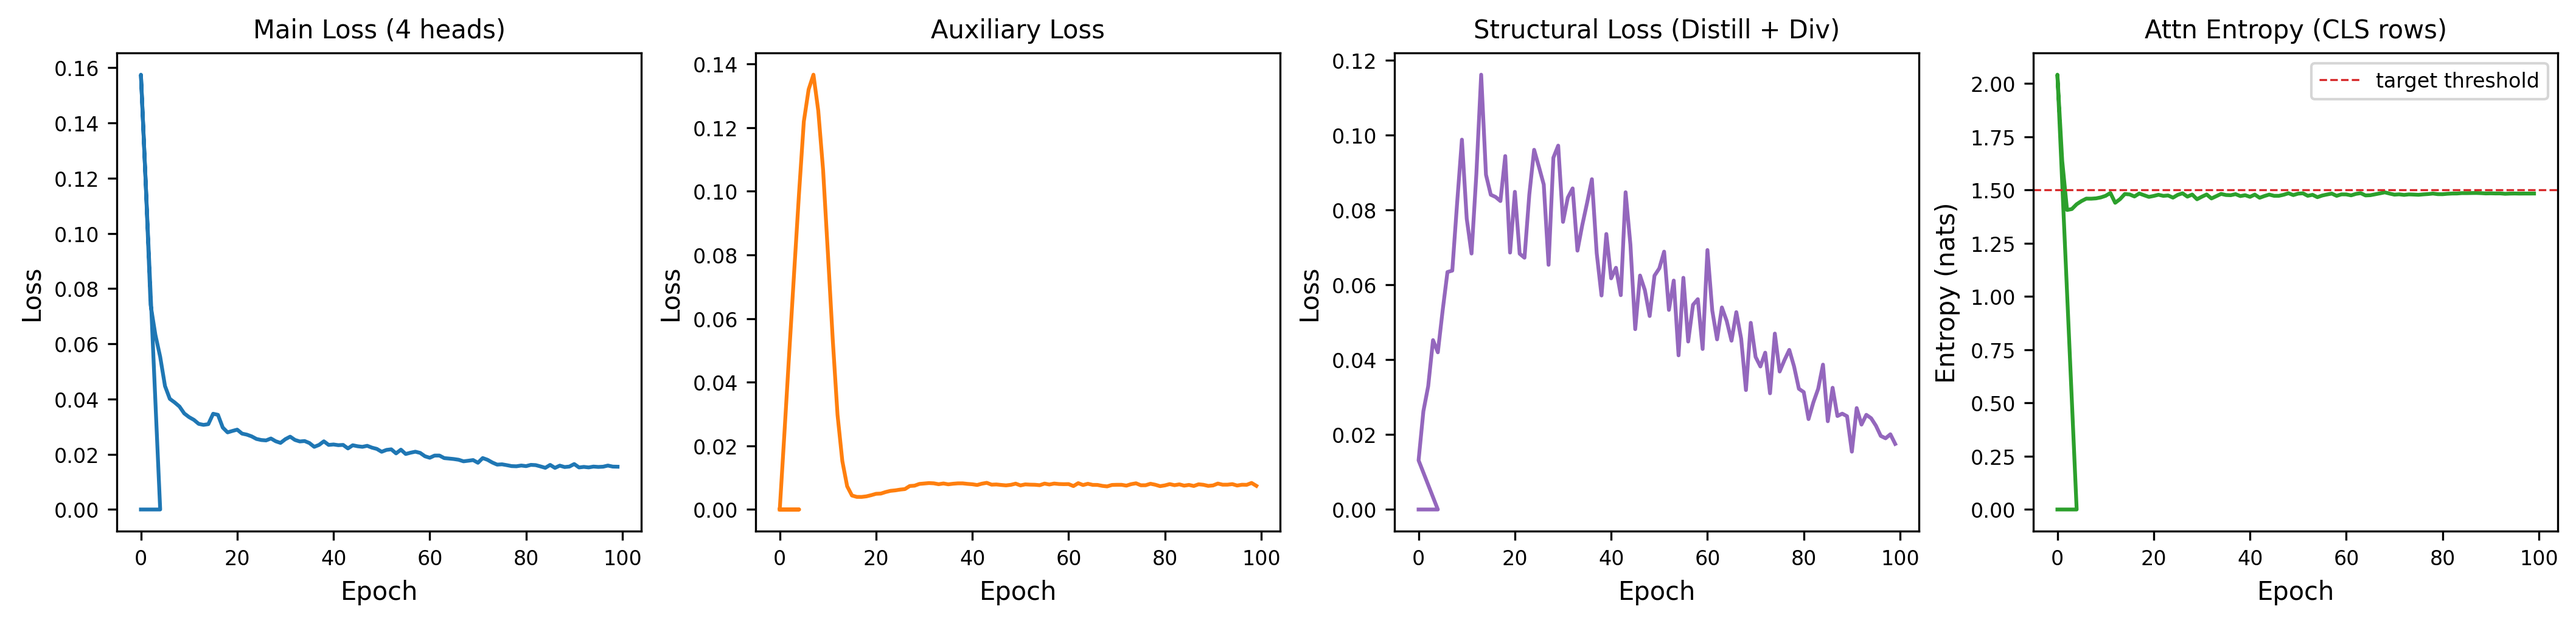
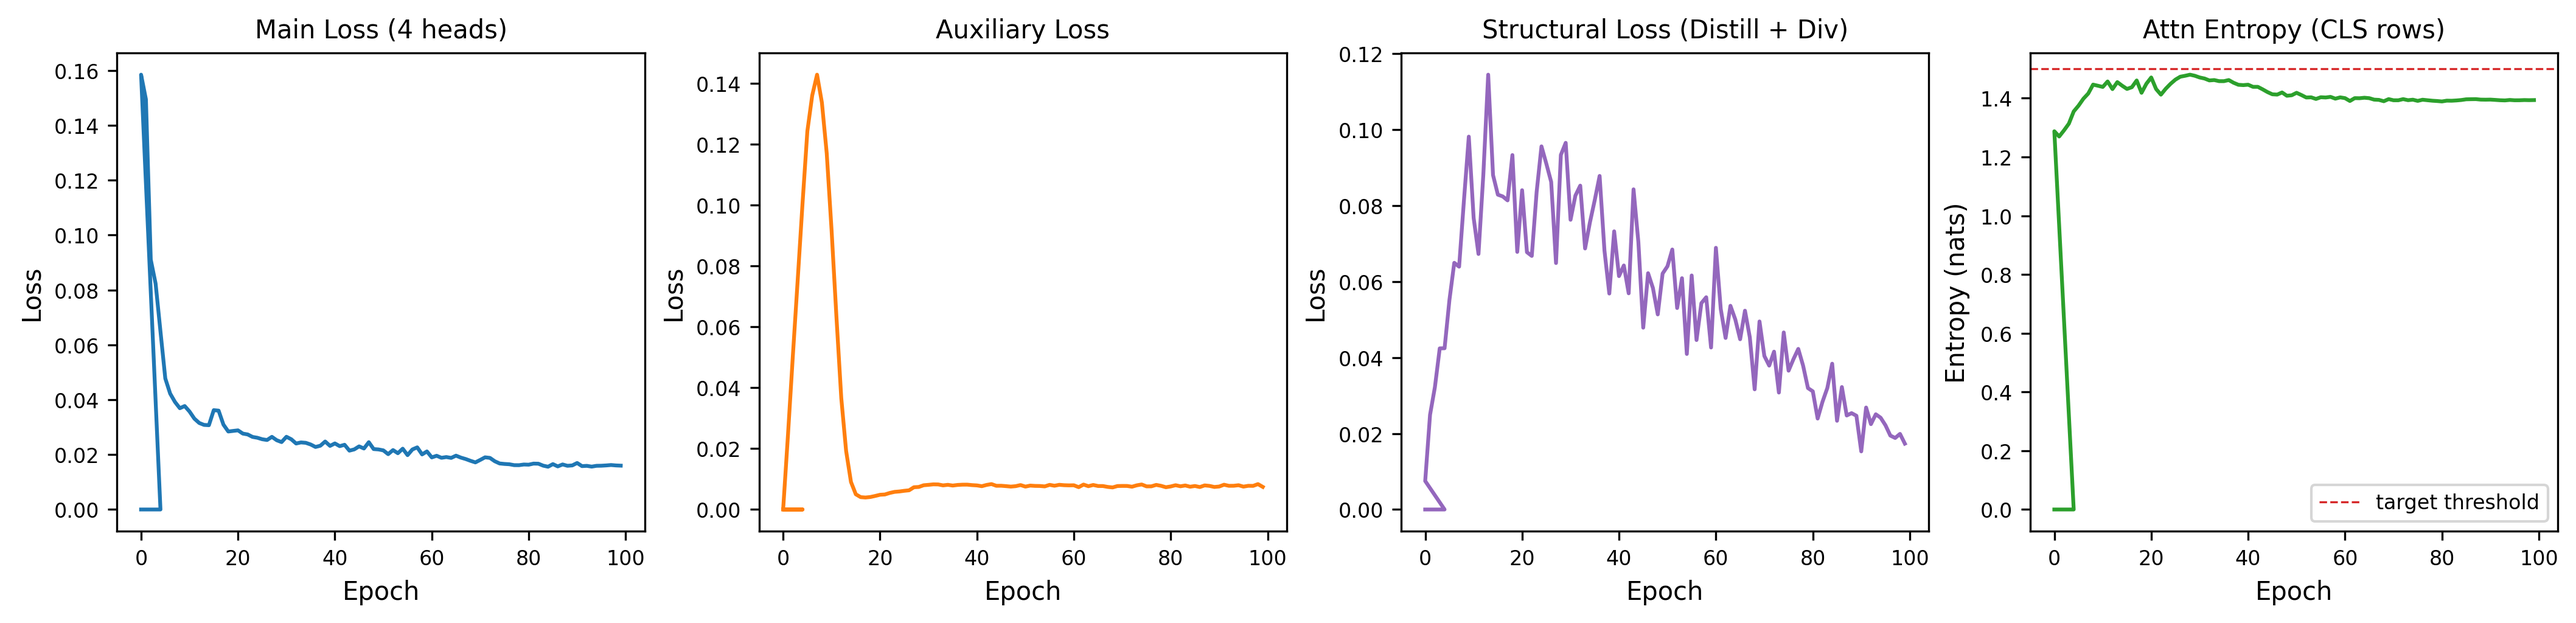
fix: update carbon model results with sparse-data amplification fixes
New checkpoint trained with three architectural fixes:
- StepLocProxy divisive normalization (CLS / sqrt(num_valid))
- Sinkhorn dustbin padding (prevents 1x1 degeneracy)
- LayerNorm on mat_loc_feature before transport head

Total R2 unchanged at 0.988. Sparse-product prediction gap
resolved (was 10x inverted, now correct direction).
Updated README metrics, architecture descriptions, and all plots.

diff --git a/README.md b/README.md
@@ -259,13 +259,13 @@ Residual Trunk (192-dim, 3 blocks, LN + Linear + GELU + Dropout)
 
 ### Key Components
 
-**Dual CLS Tokens.** The StepLocProxy prepends two learned CLS tokens to the step-location sequence before self-attention. CLS_transport is distilled toward the privileged TransportEncoder output; CLS_processing is free, trained only by the processing head's task loss. This prevents transport optimization from corrupting processing-relevant attention patterns.
+**Dual CLS Tokens.** The StepLocProxy prepends two learned CLS tokens to the step-location sequence before self-attention. CLS_transport is distilled toward the privileged TransportEncoder output; CLS_processing is free, trained only by the processing head's task loss. This prevents transport optimization from corrupting processing-relevant attention patterns. After extraction, both CLS outputs are divided by `sqrt(num_valid_tokens)` to normalize magnitude across varying sequence lengths -- without this, a 1-token sequence produces a much higher-magnitude CLS output than a 5-token sequence due to concentrated attention.
 
 **Multi-Scale Coordinate Encoding.** Geographic coordinates are encoded as 32-dimensional multi-scale sinusoidal features across 8 frequency scales, capturing both continental-scale and city-level spatial patterns.
 
 **Gated Geo Fusion.** 27 geographic features (3 haversine statistics + 16-bin pairwise distance histogram + 8 top-K step-pair distances) pass through a learned sigmoid gate controlling per-dimension mixing with the CLS attention output. This prevents the projection MLP from routing everything through scalar statistics and ignoring the attention mechanism.
 
-**MaterialLocAssignment.** Cross-attention with Sinkhorn normalization (3 iterations) solves the bipartite assignment problem: materials and locations are specified separately (not which material is processed where). The module learns soft doubly-stochastic assignments, producing a 32-dim transport-relevant feature for the transport head.
+**MaterialLocAssignment.** Cross-attention with Sinkhorn normalization (3 iterations) solves the bipartite assignment problem: materials and locations are specified separately (not which material is processed where). The module learns soft doubly-stochastic assignments, producing a 32-dim transport-relevant feature that is LayerNorm-normalized before reaching the transport head. A learned dustbin row and column are appended before Sinkhorn to prevent degenerate 1x1 matrices (single material, single location) from trivially returning weight 1.0 -- the dustbin absorbs some assignment mass, ensuring even sparse products produce properly scaled features.
 
 **LUPI Distillation Schedule.** The privileged TransportEncoder sees ground-truth per-leg distances during training. A composite distillation loss (RKD with `rkd_alpha=0.5` blending instance MSE and pairwise distance preservation) transfers this knowledge to the proxy. The distillation coefficient warms up over 10 epochs, peaks at 0.10, then decays linearly to a floor of 0.02.
 
@@ -399,13 +399,13 @@ Note the water model's tier distribution is heavily skewed toward degraded tiers
 
 | Component | MAE | R^2 | SMAPE |
 |-----------|-----|-----|-------|
-| Raw materials | 0.229 kgCO2e | 0.992 | 6.2% |
-| Processing | 0.307 kgCO2e | 0.971 | 9.7% |
-| Transport | 0.048 kgCO2e | 0.691 | 18.6% |
-| Packaging | 0.010 kgCO2e | 0.964 | 4.2% |
-| **Total** | **0.479 kgCO2e** | **0.988** | **6.3%** |
+| Raw materials | 0.235 kgCO2e | 0.991 | 6.1% |
+| Processing | 0.308 kgCO2e | 0.973 | 9.8% |
+| Transport | 0.046 kgCO2e | 0.665 | 18.1% |
+| Packaging | 0.010 kgCO2e | 0.969 | 4.0% |
+| **Total** | **0.489 kgCO2e** | **0.988** | **6.4%** |
 
-Transport is the weakest head (R^2 = 0.691) -- expected, because the proxy must infer transport distances from indirect geographic signals without access to actual per-leg route data at inference time. The LUPI distillation provides a substantial improvement over a naive proxy (which would be near-random), but transport remains inherently harder to estimate than material-driven components.
+Transport is the weakest head (R^2 = 0.665) -- expected, because the proxy must infer transport distances from indirect geographic signals without access to actual per-leg route data at inference time. The LUPI distillation provides a substantial improvement over a naive proxy (which would be near-random), but transport remains inherently harder to estimate than material-driven components.
 
 ### Tier Degradation
 
@@ -456,11 +456,11 @@ Overall tier degradation factor: 2.4x. The confidence gates play a critical role
 | Parameters | ~546K | ~469K |
 | Output heads | 4 (raw, transport, processing, packaging) | 3 (raw, processing, packaging) |
 | Total R^2 | 0.988 | 0.969 |
-| Total MAE | 0.479 kgCO2e | 0.587 m^3 world-eq |
+| Total MAE | 0.489 kgCO2e | 0.587 m^3 world-eq |
 | Geographic sensitivity | Low (2-3x variance) | High (40-100x variance via AWARE) |
 | Key mechanism | LUPI distillation for transport proxy | Confidence-gated cross-attention for geography |
 | Trunk dimension | 192, 3 residual blocks | 128, 2 residual blocks |
-| Special modules | MaterialLocAssignment (Sinkhorn), TransportEncoder | GeoAttentionBlock, ConfidenceGate |
+| Special modules | MaterialLocAssignment (Sinkhorn + dustbin), TransportEncoder | GeoAttentionBlock, ConfidenceGate |
 | Tier A-B strategy | Learned missing embeddings, packaging shortcut | Prior-heavy gates (bias -2.0), auxiliary weight |
 | Tier distribution | A:10%, B:15%, C:20%, D:20%, E:20%, F:15% | A:35%, B:25%, C:15%, D:10%, E:10%, F:5% |
 | Dataset | 49,732 records (70/15/15 split) | 49,732 records (70/15/15 split) |
